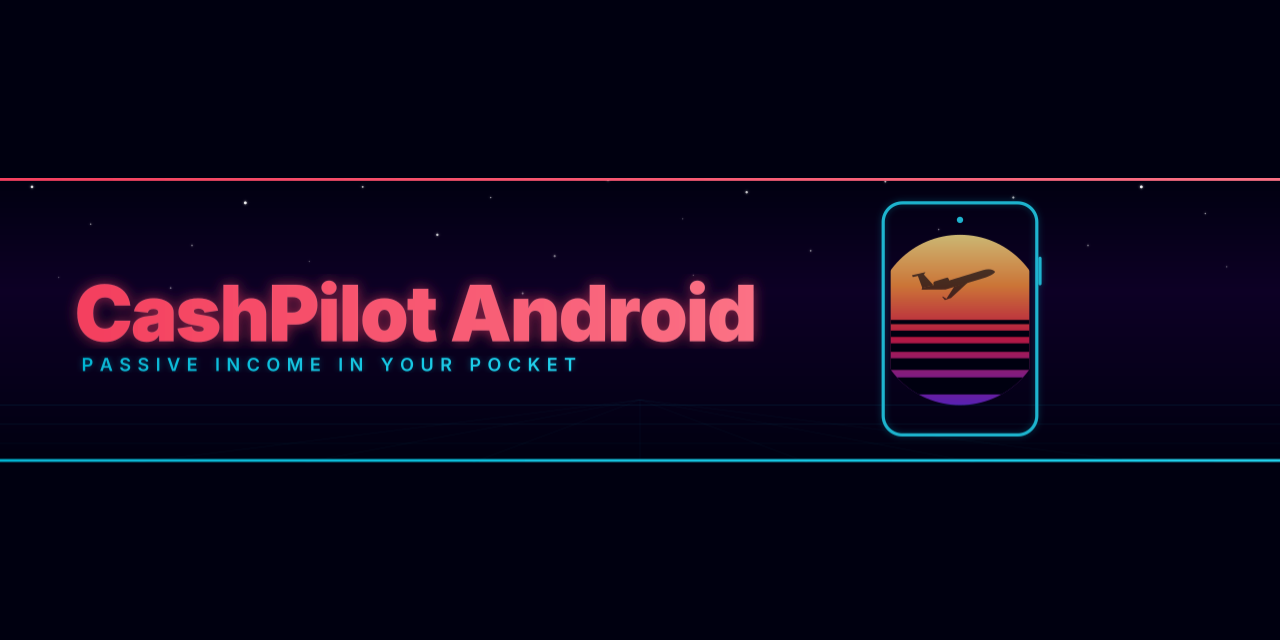
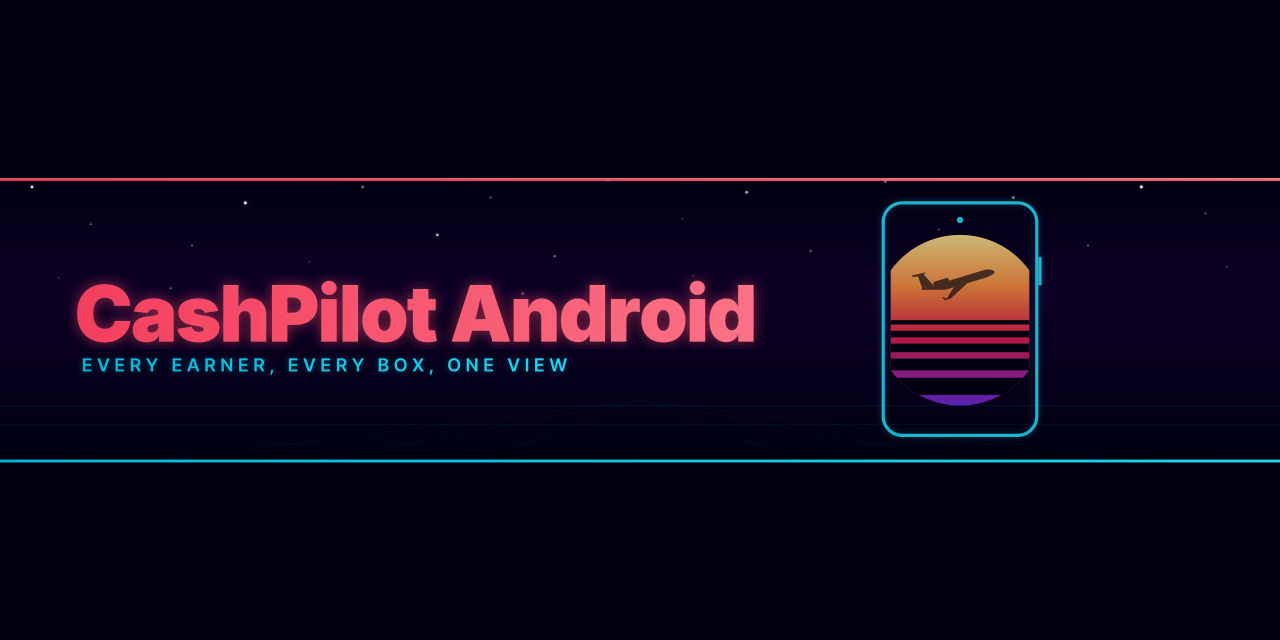
docs: describe the Android app as CashPilot's agent for the phone, and drop the 1.0 news section (#122)

diff --git a/README.md b/README.md
@@ -8,37 +8,27 @@
 [![CI](https://github.com/GeiserX/CashPilot-android/actions/workflows/ci.yml/badge.svg)](https://github.com/GeiserX/CashPilot-android/actions/workflows/ci.yml)
 [![License](https://img.shields.io/github/license/GeiserX/CashPilot-android?style=flat-square)](LICENSE)
 [![codecov](https://codecov.io/gh/GeiserX/CashPilot-android/graph/badge.svg)](https://codecov.io/gh/GeiserX/CashPilot-android)
-[![Website](https://img.shields.io/badge/website-cashpilot.club-blue?style=flat-square)](https://cashpilot.club)
-[![X](https://img.shields.io/badge/X-%40CashPilotClub-000000?style=flat-square&logo=x)](https://x.com/CashPilotClub)
 
-CashPilot Android is the Android companion app for [CashPilot](https://github.com/GeiserX/CashPilot). It detects which passive income apps are installed and running on your phone, without root, and reports them to your CashPilot fleet dashboard.
+**Every earner, every box, one view.** Website: https://cashpilot.club, on X: https://x.com/CashPilotClub
 
-## What's new in 1.0
+CashPilot Android is the Android agent of [CashPilot](https://github.com/GeiserX/CashPilot), the self-hosted dashboard for bandwidth sharing, DePIN, mining, GPU compute and storage earners. It checks, without root, which earning apps are installed and running on your phone, and reports them to your CashPilot fleet, so the phone shows up next to your servers and desktops.
 
 <p align="center">
   <img src="app/src/test/screenshots/screens/home_healthy_dark.png" alt="Home screen, dark: All 6 apps running" width="270"/>
   <img src="app/src/test/screenshots/screens/home_problems_light.png" alt="Home screen, light: 2 of 6 apps stopped, four things to fix listed in order" width="270"/>
 </p>
 
-- **One line tells you if every app is running.** When something is wrong, the home screen says what and gives you the button to fix it, such as **Open** for a stopped app.
-- **Setup explains each permission first.** Three short steps, a plain screen before every Android prompt, and you can skip the permissions or the server.
-- **Test connection is a real test.** It sends one report and tells you whether the server answered and accepted your key.
-- **Reports every 15 minutes through WorkManager**, with no permanent notification and no battery exemption request.
-- **Nothing leaves the phone except to your own server.** The public IP lookup is gone.
-- **Accessibility is tested**: 48 dp touch targets, TalkBack labels and order, text at 1.3x size, WCAG AA contrast in the Light and Classic night palettes.
-- **10 supported apps.**
-- **In progress:** inclusion in F-Droid.
-
-CashPilot Android 1.0 ships alongside [CashPilot](https://github.com/GeiserX/CashPilot) 2.0 and [CashPilot Desktop](https://github.com/GeiserX/CashPilot-Desktop) 1.0. The full list is in the [changelog](CHANGELOG.md).
-
 ## Features
 
-- Detects 10 passive income apps: EarnApp, IPRoyal Pawns, MystNodes, Traffmonetizer, Bytelixir, ByteBenefit, Grass, Titan Network, Nodle Cash, Wipter
-- Instant detection from each app's ongoing notification (NotificationListenerService)
-- Confirms activity from per-app network traffic and recent foreground use (NetworkStatsManager, UsageStatsManager)
-- Periodic heartbeats to your server (`POST /api/workers/heartbeat`), so phones appear next to Docker workers in the fleet view
-- Sends data only to your own CashPilot server, and to nothing else
-- No root required; Android 8.0 or later
+- Watches 10 earning apps: EarnApp, IPRoyal Pawns, MystNodes, Traffmonetizer, Bytelixir, ByteBenefit, Grass, Titan Network, Nodle Cash, Wipter
+- One line says whether every app is running; when one is not, the home screen says what and gives the button that fixes it, such as **Open**
+- Detects each app from its ongoing notification, and confirms activity from its network traffic and recent use
+- Joins your fleet: a report every 15 minutes through WorkManager, so the phone appears next to Docker workers and CashPilot Desktop
+- Test connection sends one report and tells you whether the server answered and accepted your key
+- Sends data only to your own CashPilot server or CashPilot Desktop, and to nothing else
+- Setup explains each permission before Android asks, and you can skip the permissions or the server
+- Accessibility tested: 48 dp touch targets, TalkBack labels and order, text at 1.3x, WCAG AA contrast
+- No root, no permanent notification and no battery exemption request; Android 8.0 or later
 
 ## Quick start
 

diff --git a/docs/index.md b/docs/index.md
@@ -6,7 +6,7 @@ hide:
 # CashPilot Android { .cpa-visually-hidden }
 
 <p align="center">
-  <img src="images/banner.svg" alt="CashPilot Android: passive income in your pocket" width="100%">
+  <img src="images/banner.svg" alt="CashPilot Android: every earner, every box, one view" width="100%">
 </p>
 
 <p align="center">
@@ -18,7 +18,7 @@ hide:
 
 ---
 
-**CashPilot Android** tells you which of your passive income apps are actually running on your phone, without root. It watches 10 apps (EarnApp, IPRoyal Pawns, MystNodes, Grass and more) through three Android APIs. A bandwidth app that has stopped earns nothing and usually shows nothing on the phone; here it goes to the top of the list in red. Paired with a [CashPilot](https://geiserx.github.io/CashPilot/) server, the phone joins your fleet next to the Docker workers and shows what its platforms earned. Start with [Getting started](getting-started.md), then [Usage](usage.md).
+**Every earner, every box, one view.** **CashPilot Android** is the Android agent of CashPilot, the self-hosted dashboard for bandwidth sharing, DePIN, mining, GPU compute and storage earners. It tells you which of your earning apps are actually running on your phone, without root. It watches 10 apps (EarnApp, IPRoyal Pawns, MystNodes, Grass and more) through three Android APIs. A bandwidth app that has stopped earns nothing and usually shows nothing on the phone; here it goes to the top of the list in red. Paired with a [CashPilot](https://geiserx.github.io/CashPilot/) server, the phone joins your fleet next to the Docker workers and shows what its platforms earned. Start with [Getting started](getting-started.md), then [Usage](usage.md).
 
 <div class="grid cards" markdown>
 
